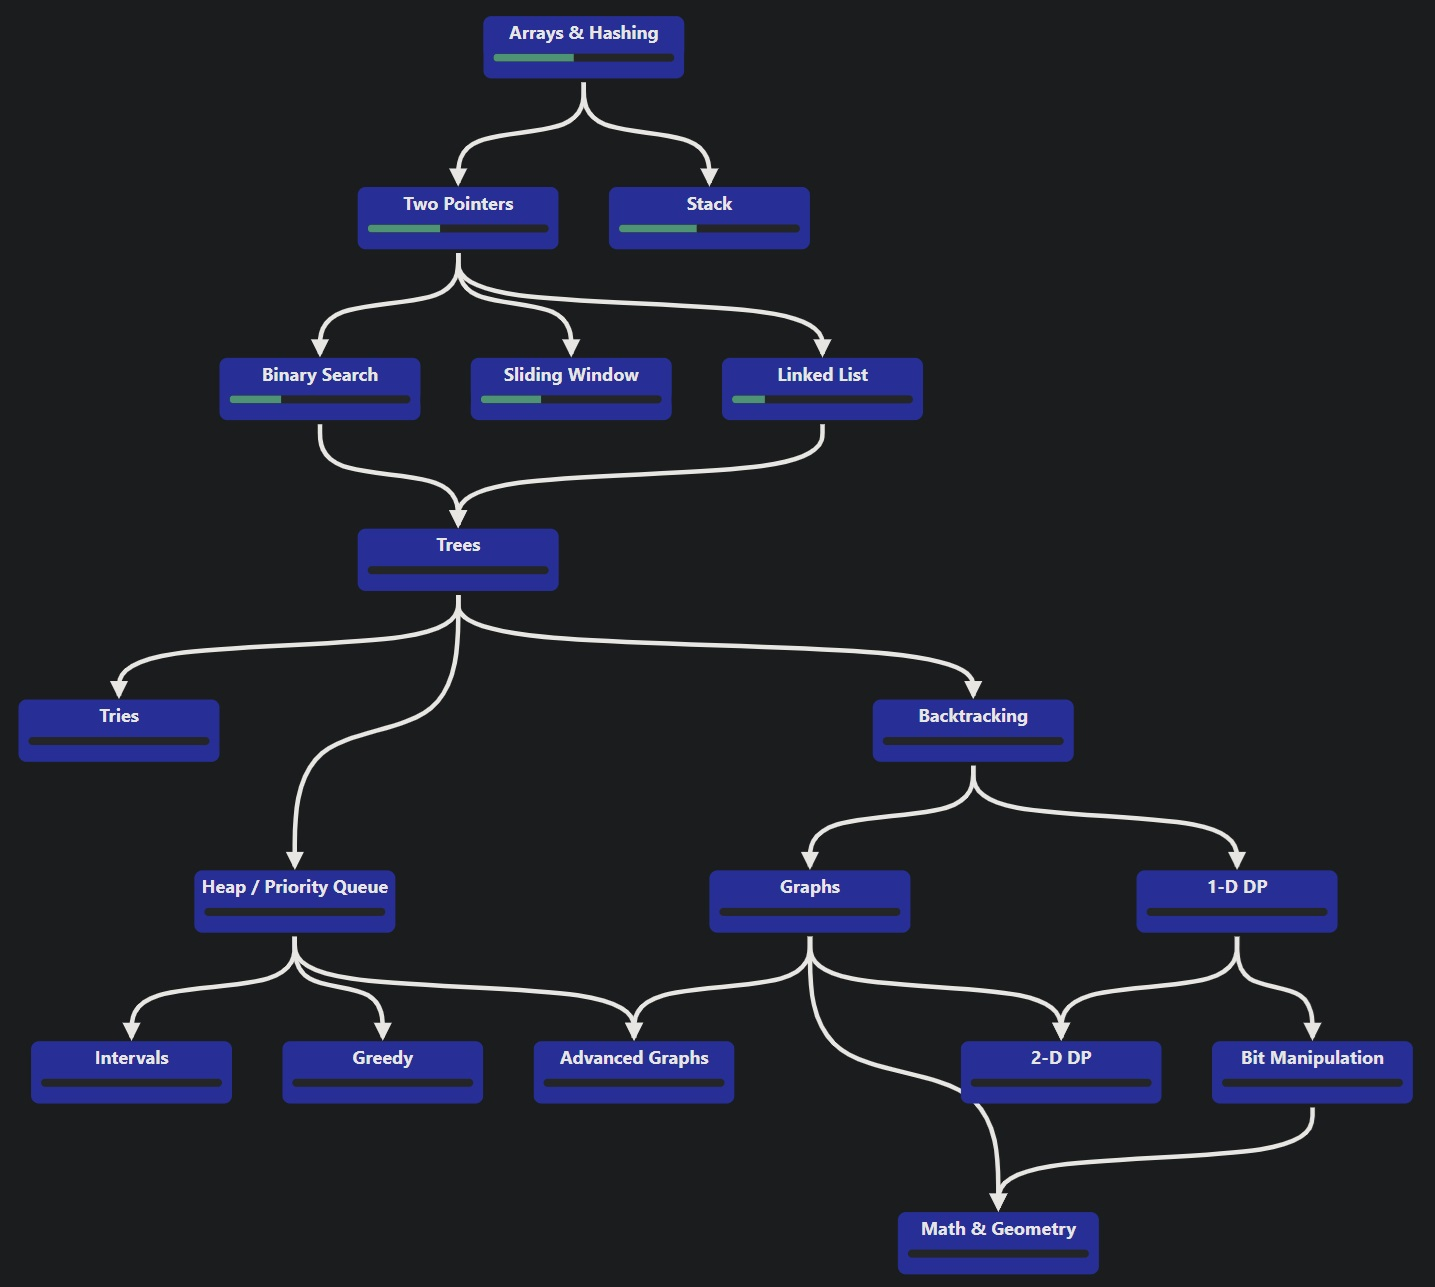
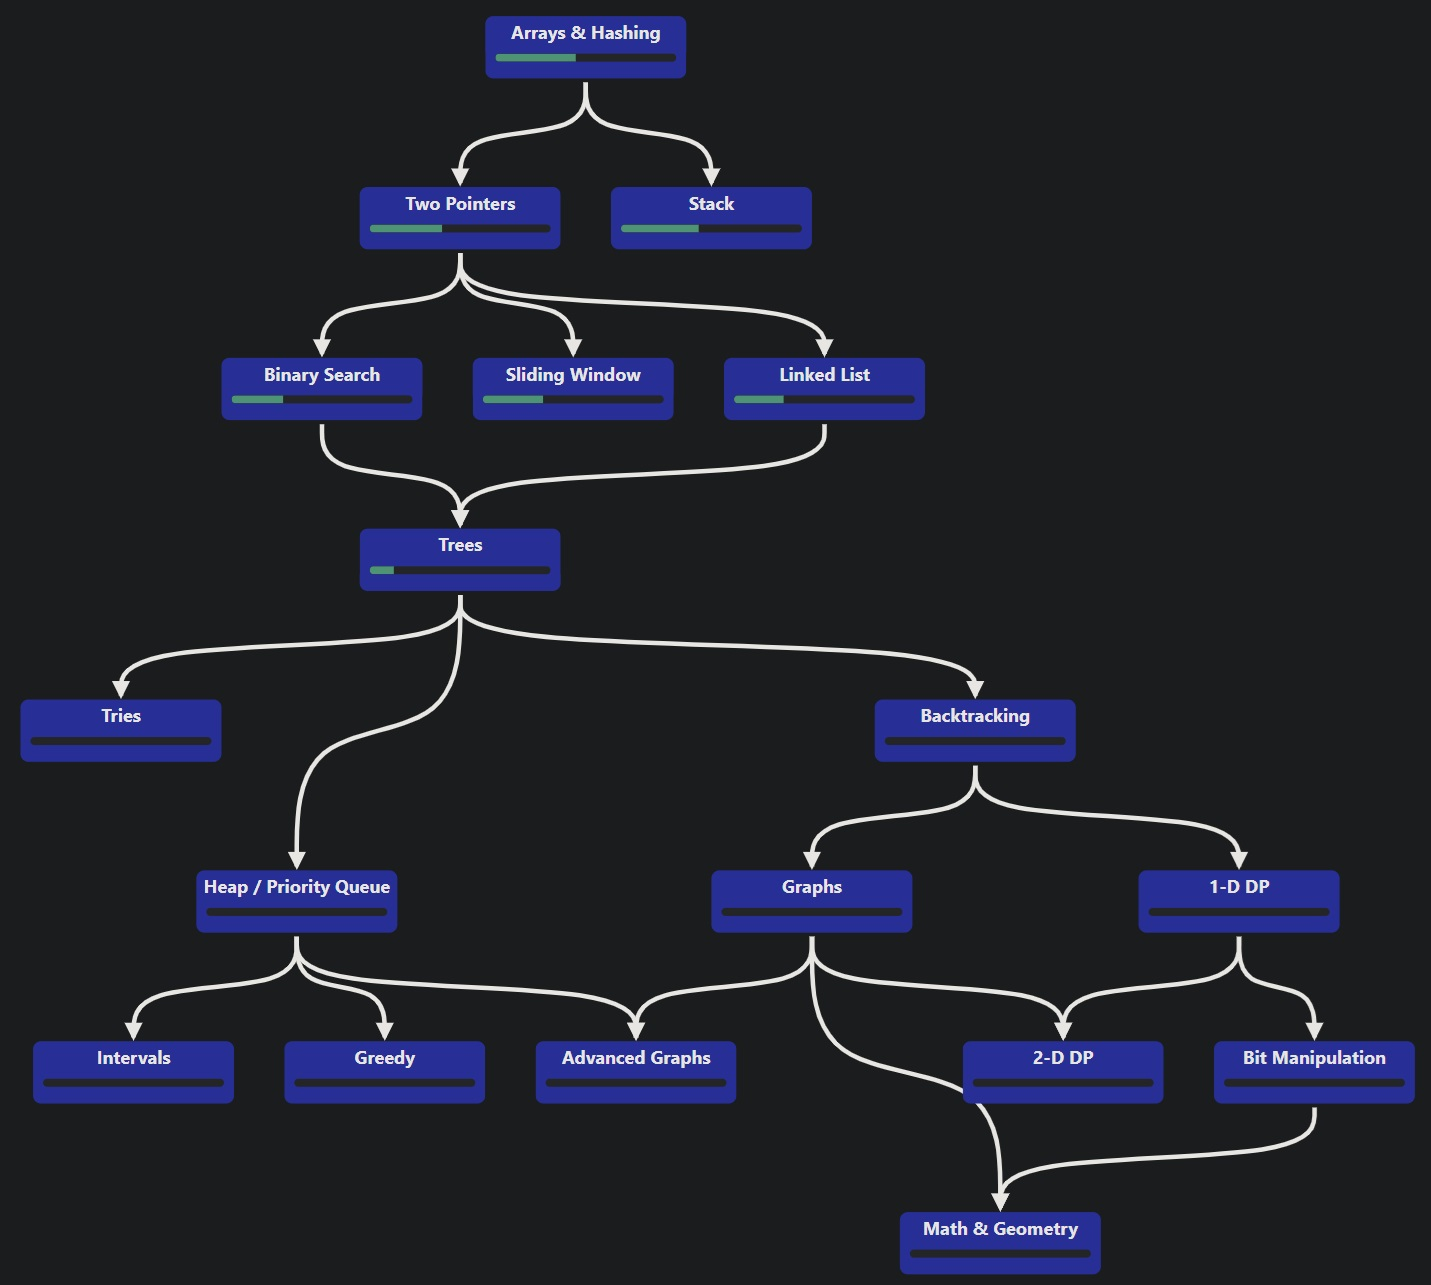
Added tree category and more solutions

diff --git a/Linked-List/Reorder-List.py b/Linked-List/Reorder-List.py
@@ -1,0 +1,42 @@
+from typing import Optional
+
+class ListNode:
+    def __init__(self, val=0, next=None):
+        self.val = val
+        self.next = next
+
+class Solution:
+    def reorderList(self, head: Optional[ListNode]) -> None:
+        
+        # Get a reference to the head of the linked list
+        linkedList = head
+
+        # Iterate through the list and get all the nodes
+        nodeList = []
+
+        while head != None:
+            nodeList.append(head)
+            head = head.next
+
+        # Go through the node list and connect the pointers in the order as described
+
+        offset = 0 # This describes the offset index from the front or end of the list
+        flipBit = 1 # This is used to check whether we are grabbing the node from the front or back of the list
+        processedNodes = 0
+        head = linkedList
+
+        while processedNodes < len(nodeList):
+
+            if flipBit == 1:
+                head.next = nodeList[-offset - 1]
+                offset += 1
+            else:
+                head.next = nodeList[offset]
+
+            # Restart the loop with the new node as the head, and flip the bit
+            head = head.next
+            processedNodes += 1
+            flipBit = flipBit * -1
+
+        # Finally, update the pointer at the end of the linked list to none
+        head.next = None

diff --git a/Trees/Invert-Binary-Tree.py b/Trees/Invert-Binary-Tree.py
@@ -1,0 +1,24 @@
+from typing import Optional
+
+class TreeNode:
+    def __init__(self, val=0, left=None, right=None):
+        self.val = val
+        self.left = left
+        self.right = right
+
+class Solution:
+    def invertTree(self, root: Optional[TreeNode]) -> Optional[TreeNode]:
+        
+        # Base case
+        if root == None:
+            return None
+
+        # Swap the child nodes
+        temp = root.right
+        root.right = root.left
+        root.left = temp
+
+        # Recursively call on the child nodes and return
+        self.invertTree(root.right)
+        self.invertTree(root.left)
+        return root

diff --git a/Trees/Maximum-Depth-Of-Binary-Tree.py b/Trees/Maximum-Depth-Of-Binary-Tree.py
@@ -1,0 +1,17 @@
+from typing import Optional
+
+class TreeNode:
+    def __init__(self, val=0, left=None, right=None):
+        self.val = val
+        self.left = left
+        self.right = right
+
+class Solution:
+    def maxDepth(self, root: Optional[TreeNode]) -> int:
+        
+        # Base case
+        if root == None:
+            return 0
+
+        # Add 1 for our current level, and get the max of the depth of the nodes right and left children
+        return 1 + max(self.maxDepth(root.right), self.maxDepth(root.left))
